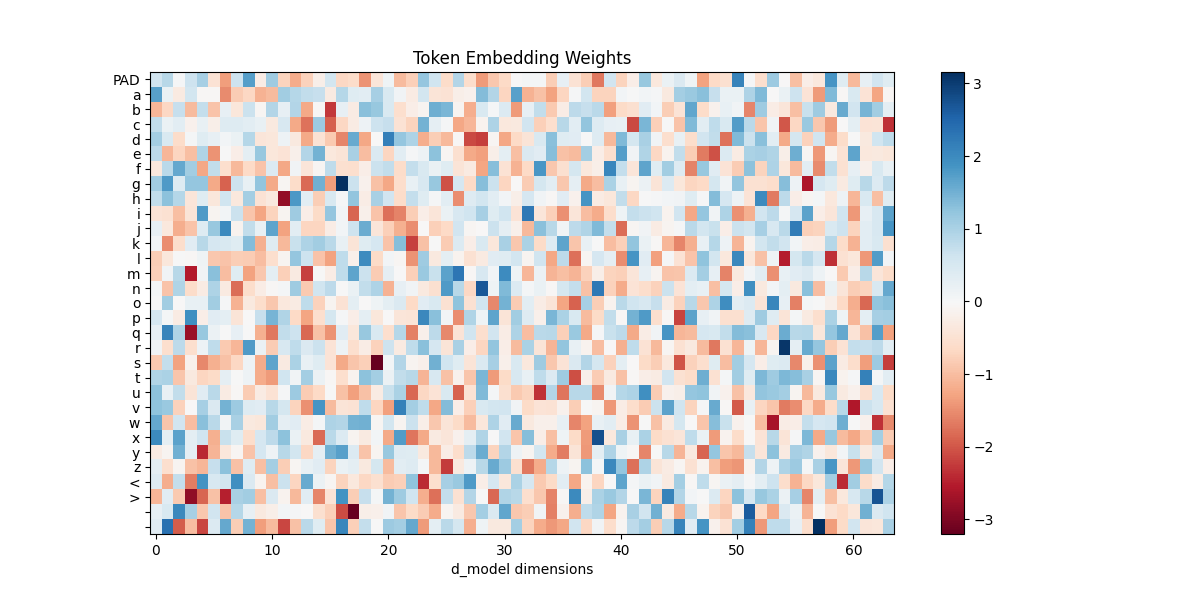
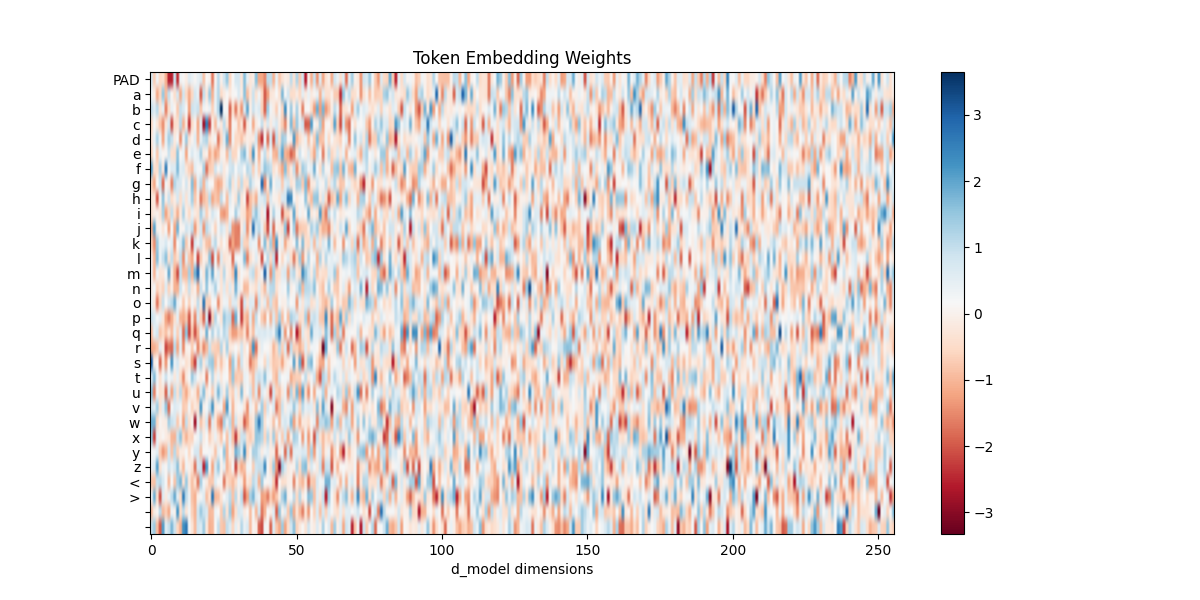
Updated images

diff --git a/main.py b/main.py
@@ -4,9 +4,6 @@ Character-Level Decoder Inference Pipeline
 
 This repo demonstrates the inference pipeline for the trained
 Character-Level Decoder-Only language model.
-
-Originally developed in Google Colab:
-https://colab.research.google.com/drive/1CjvzQ7QYwtLuCXRpqcB29o5tAKjGgJrg
 """
 
 from inference import generate